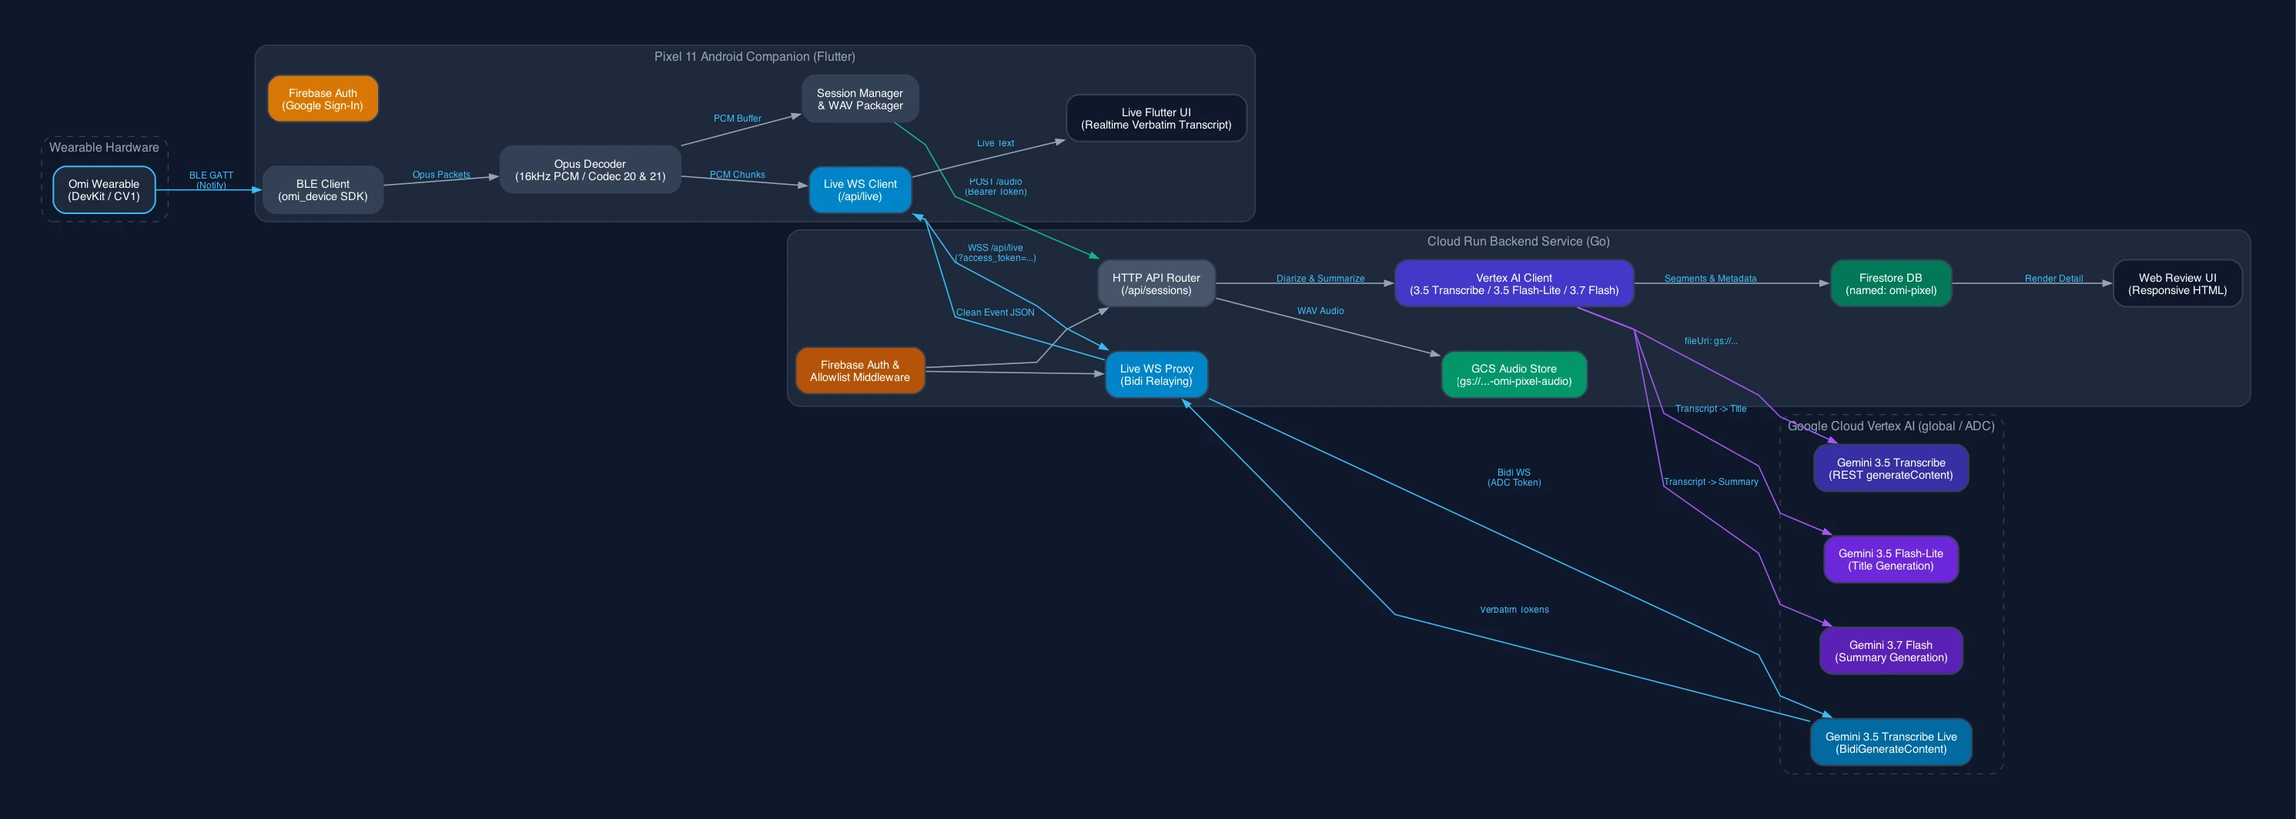
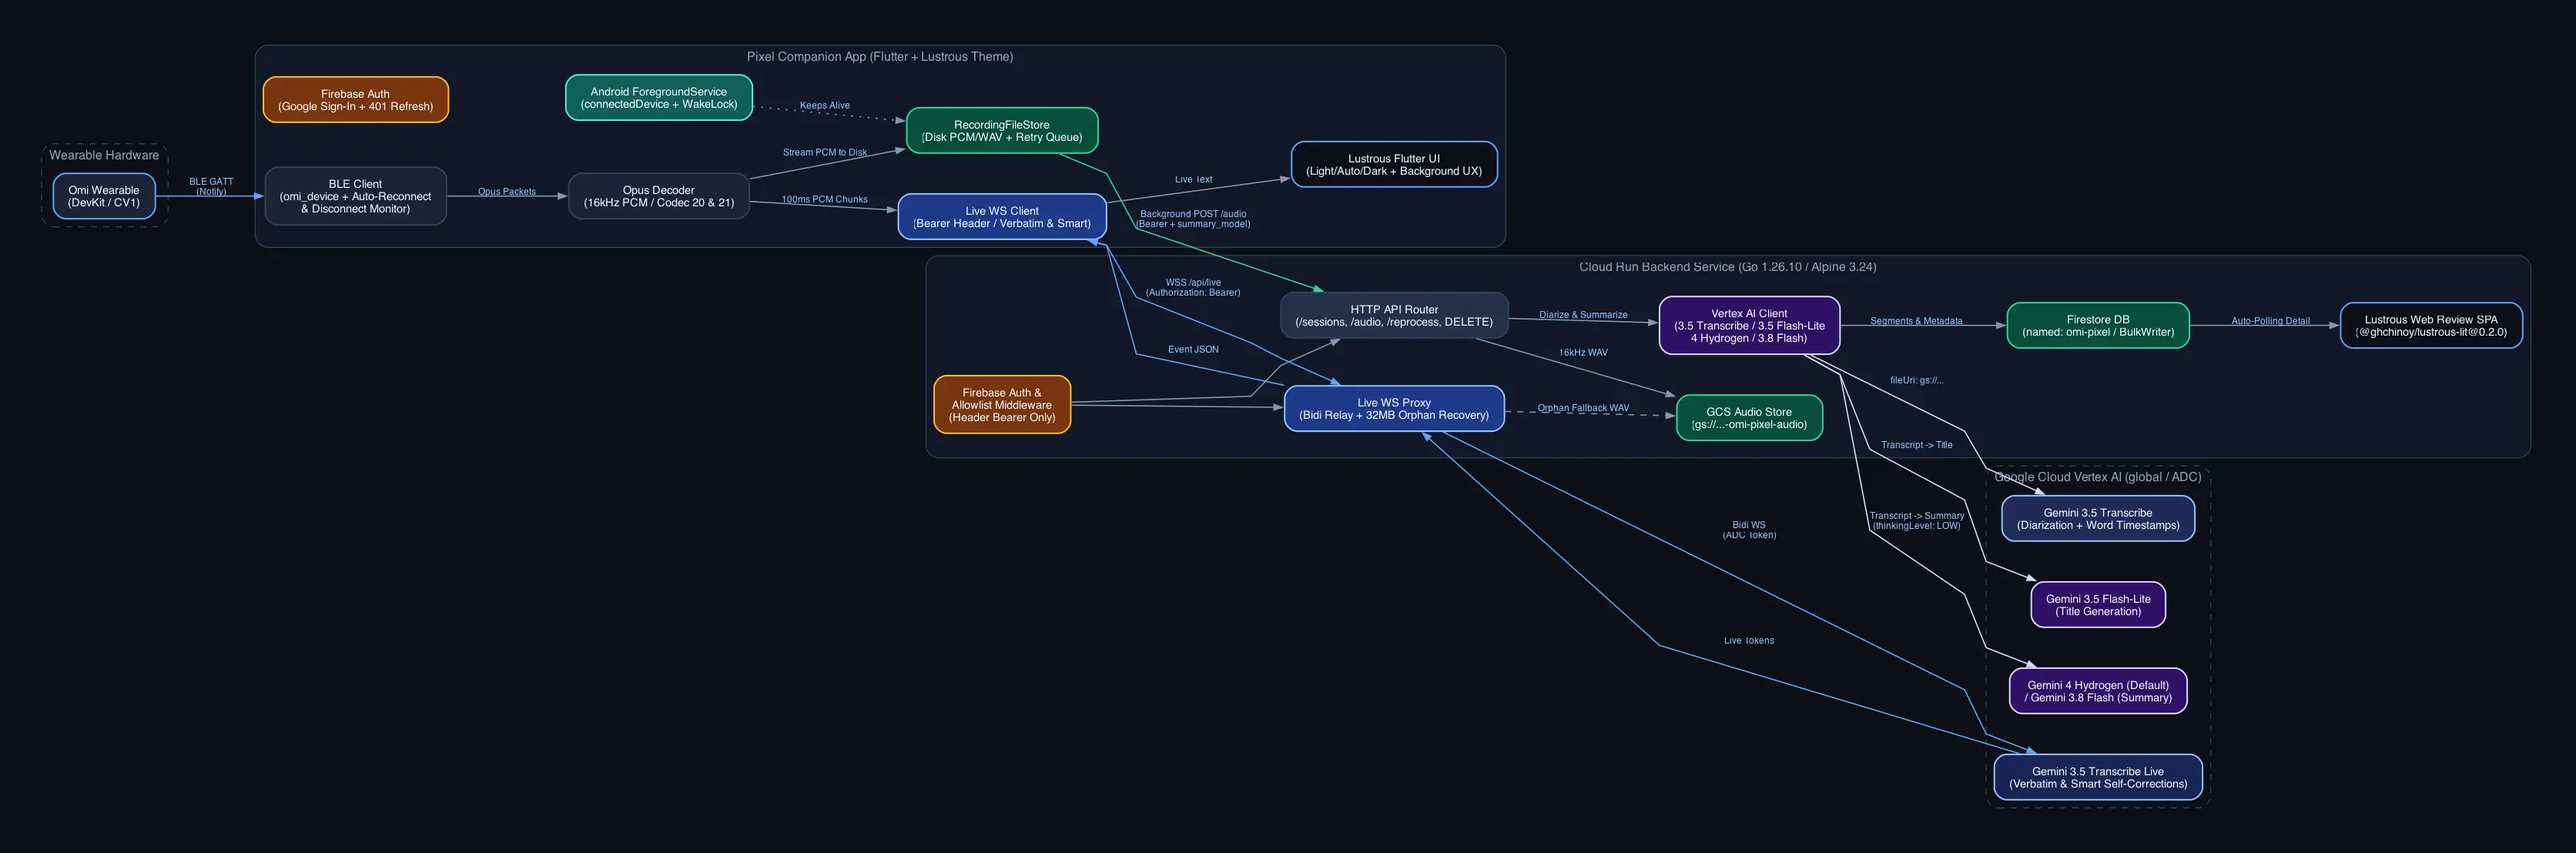
fix(flutter): fix narrow-screen overflow & refresh v0.4.0 architecture diagrams (omi-pixel-qhm, omi-pixel-0wl)

diff --git a/app/lib/ui/home_screen.dart b/app/lib/ui/home_screen.dart
@@ -165,9 +165,12 @@ class _HomeScreenState extends State<HomeScreen> {
             Row(
               mainAxisAlignment: MainAxisAlignment.spaceBetween,
               children: [
-                Text(
-                  'Recent Conversations',
-                  style: theme.textTheme.titleMedium?.copyWith(fontWeight: FontWeight.bold),
+                Expanded(
+                  child: Text(
+                    'Recent Conversations',
+                    overflow: TextOverflow.ellipsis,
+                    style: theme.textTheme.titleMedium?.copyWith(fontWeight: FontWeight.bold),
+                  ),
                 ),
                 IconButton(
                   icon: const Icon(Icons.refresh, size: 20),
@@ -260,27 +263,32 @@ class _HomeScreenState extends State<HomeScreen> {
                     Row(
                       mainAxisAlignment: MainAxisAlignment.spaceBetween,
                       children: [
-                        Row(
-                          children: [
-                            if (isReconnecting && !isConnected)
-                              const SizedBox(
-                                width: 20,
-                                height: 20,
-                                child: CircularProgressIndicator(strokeWidth: 2),
-                              )
-                            else
-                              Icon(
-                                isConnected ? Icons.bluetooth_connected : Icons.bluetooth,
-                                color: isConnected ? theme.colorScheme.primary : theme.colorScheme.onSurfaceVariant,
+                        Expanded(
+                          child: Row(
+                            children: [
+                              if (isReconnecting && !isConnected)
+                                const SizedBox(
+                                  width: 20,
+                                  height: 20,
+                                  child: CircularProgressIndicator(strokeWidth: 2),
+                                )
+                              else
+                                Icon(
+                                  isConnected ? Icons.bluetooth_connected : Icons.bluetooth,
+                                  color: isConnected ? theme.colorScheme.primary : theme.colorScheme.onSurfaceVariant,
+                                ),
+                              const SizedBox(width: 8),
+                              Expanded(
+                                child: Text(
+                                  isConnected
+                                      ? device.name
+                                      : (isReconnecting ? 'Reconnecting to Omi...' : 'No Device Connected'),
+                                  overflow: TextOverflow.ellipsis,
+                                  style: const TextStyle(fontWeight: FontWeight.bold, fontSize: 16),
+                                ),
                               ),
-                            const SizedBox(width: 8),
-                            Text(
-                              isConnected
-                                  ? device.name
-                                  : (isReconnecting ? 'Reconnecting to Omi...' : 'No Device Connected'),
-                              style: const TextStyle(fontWeight: FontWeight.bold, fontSize: 16),
-                            ),
-                          ],
+                            ],
+                          ),
                         ),
                         if (isConnected && device.batteryLevel >= 0)
                           Container(
@@ -355,13 +363,14 @@ class _HomeScreenState extends State<HomeScreen> {
 
     showModalBottomSheet<void>(
       context: context,
+      isScrollControlled: true,
       shape: const RoundedRectangleBorder(
         borderRadius: BorderRadius.vertical(top: Radius.circular(20)),
       ),
       builder: (ctx) {
         final theme = Theme.of(ctx);
         return SafeArea(
-          child: Padding(
+          child: SingleChildScrollView(
             padding: const EdgeInsets.fromLTRB(20, 20, 20, 16),
             child: Column(
               mainAxisSize: MainAxisSize.min,
@@ -572,7 +581,7 @@ class _HomeScreenState extends State<HomeScreen> {
         return ValueListenableBuilder<String>(
           valueListenable: SettingsService.instance.liveModeNotifier,
           builder: (context, liveMode, _) {
-            final modeLabel = liveMode == 'smart' ? 'Smart (Self-Corrections)' : 'Verbatim';
+            final modeLabel = liveMode == 'smart' ? 'Smart' : 'Verbatim';
             return Column(
               children: [
                 SizedBox(
@@ -594,23 +603,30 @@ class _HomeScreenState extends State<HomeScreen> {
                   ),
                 ),
                 const SizedBox(height: 6),
-                Row(
-                  mainAxisAlignment: MainAxisAlignment.center,
-                  children: [
-                    Icon(
-                      liveMode == 'smart' ? Icons.auto_fix_high : Icons.record_voice_over,
-                      size: 13,
-                      color: theme.colorScheme.onSurfaceVariant,
-                    ),
-                    const SizedBox(width: 5),
-                    Text(
-                      'Mode: $modeLabel • Long-press button to switch',
-                      style: theme.textTheme.bodySmall?.copyWith(
+                Padding(
+                  padding: const EdgeInsets.symmetric(horizontal: 8.0),
+                  child: Row(
+                    mainAxisAlignment: MainAxisAlignment.center,
+                    children: [
+                      Icon(
+                        liveMode == 'smart' ? Icons.auto_fix_high : Icons.record_voice_over,
+                        size: 13,
                         color: theme.colorScheme.onSurfaceVariant,
-                        fontSize: 12,
                       ),
-                    ),
-                  ],
+                      const SizedBox(width: 5),
+                      Flexible(
+                        child: Text(
+                          'Mode: $modeLabel • Hold to switch',
+                          textAlign: TextAlign.center,
+                          softWrap: true,
+                          style: theme.textTheme.bodySmall?.copyWith(
+                            color: theme.colorScheme.onSurfaceVariant,
+                            fontSize: 12,
+                          ),
+                        ),
+                      ),
+                    ],
+                  ),
                 ),
               ],
             );

diff --git a/app/test/widget_test.dart b/app/test/widget_test.dart
@@ -347,10 +347,15 @@ void main() {
       expect(find.text('Start Conversation'), findsNothing);
     });
 
-    testWidgets('Long-pressing Start Conversation switches Verbatim to Smart mode', (WidgetTester tester) async {
+    testWidgets('Long-pressing Start Conversation switches Verbatim to Smart mode without narrow-screen overflow', (WidgetTester tester) async {
       SharedPreferences.setMockInitialValues({});
       await SettingsService.instance.init();
       SessionManager.instance.setRecordingStateForTesting(false);
+
+      tester.view.physicalSize = const Size(360, 780);
+      tester.view.devicePixelRatio = 1.0;
+      addTearDown(tester.view.resetPhysicalSize);
+      addTearDown(tester.view.resetDevicePixelRatio);
 
       await tester.pumpWidget(
         MaterialApp(
@@ -361,7 +366,7 @@ void main() {
       await tester.pump();
 
       expect(SettingsService.instance.liveTranscriptionMode, 'verbatim');
-      expect(find.textContaining('Mode: Verbatim'), findsOneWidget);
+      expect(find.text('Mode: Verbatim • Hold to switch'), findsOneWidget);
 
       await tester.longPress(find.text('Start Conversation'));
       await tester.pumpAndSettle();
@@ -373,7 +378,8 @@ void main() {
       await tester.pumpAndSettle();
 
       expect(SettingsService.instance.liveTranscriptionMode, 'smart');
-      expect(find.textContaining('Mode: Smart (Self-Corrections)'), findsOneWidget);
+      expect(find.text('Mode: Smart • Hold to switch'), findsOneWidget);
+      expect(tester.takeException(), isNull);
     });
 
     test('finalizeStoppedSession with 0 audio and live transcript saves completed segments to backend', () async {
